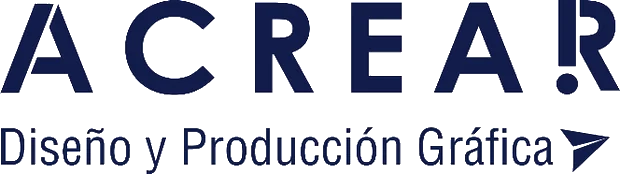
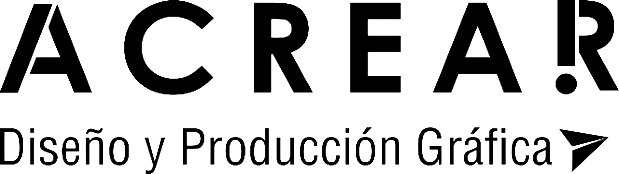
Fix monochrome sponsors legibility, update Cardacci photo in kayak, add Google Drive media hub

diff --git a/index.html b/index.html
@@ -351,19 +351,31 @@
   <div class="shell">
     <header class="head">
       <p class="head__num">04</p>
-      <h2 class="head__title">Registro de la travesía</h2>
-      <p class="head__lede">Material de la edición de abril de 2026. El álbum completo está en Drive.</p>
+      <h2 class="head__title">Videoteca y Fototeca de la Travesía</h2>
+      <p class="head__lede">Registros audiovisuales de la edición 2026. Reviví el descenso por el Río Arrayanes, la largada en Lago Verde y la llegada a Bahía Rosales.</p>
     </header>
 
-    <div class="film" id="film" data-video="t5qNJe3UqBc">
-      <button class="film__btn" type="button" aria-label="Reproducir el video de la travesía">
-        <span class="film__ring"><svg class="ic" aria-hidden="true"><use href="#i-play"/></svg></span>
-        <span class="film__label">Ver el video de la bajada<em>YouTube · se carga al reproducir</em></span>
-      </button>
+    <!-- Selector de Videos / Videoteca -->
+    <div class="video-hub">
+      <div class="video-hub__tabs">
+        <button class="video-tab-btn active" type="button" data-video-src="t5qNJe3UqBc">
+          <svg class="ic" aria-hidden="true"><use href="#i-play"/></svg> Cortometraje Oficial (Resumen)
+        </button>
+        <a class="video-tab-btn" href="https://drive.google.com/drive/folders/1t2gUt2ecHjFj2KRR2Z2_L6Mwt_5ZMMUS?usp=sharing" target="_blank" rel="noopener noreferrer">
+          <svg class="ic" aria-hidden="true"><use href="#i-folder"/></svg> Archivo de Videos Crudos en Google Drive
+        </a>
+      </div>
+
+      <div class="film" id="film" data-video="t5qNJe3UqBc">
+        <button class="film__btn" type="button" aria-label="Reproducir el video de la travesía">
+          <span class="film__ring"><svg class="ic" aria-hidden="true"><use href="#i-play"/></svg></span>
+          <span class="film__label">Ver el cortometraje de la bajada<em>Reproducción directa desde la nube sin ocupar espacio del servidor</em></span>
+        </button>
+      </div>
     </div>
 
     <div class="plates" id="plates">
-      <figure class="plate" data-full="assets/gallery-1.jpg" data-caption="Navegación sobre el Río Arrayanes, entre bosque nativo.">
+      <figure class="plate" data-full="assets/gallery-1.jpg" data-caption="Navegación sobre el Río Arrayanes, entre bosque nativo de alerces.">
         <img src="assets/gallery-1.jpg" alt="Kayaks navegando el Río Arrayanes" loading="lazy" decoding="async">
         <figcaption><b>Río Arrayanes</b><span>Tramo de corriente</span></figcaption>
       </figure>
@@ -371,19 +383,22 @@
         <img src="assets/gallery-2.jpg" alt="Amanecer sobre el Lago Verde" loading="lazy" decoding="async">
         <figcaption><b>Lago Verde</b><span>Largada</span></figcaption>
       </figure>
-      <figure class="plate" data-full="assets/gallery-3.jpg" data-caption="Desembarque en la playa de Bahía Rosales.">
+      <figure class="plate" data-full="assets/gallery-3.jpg" data-caption="Desembarque y descanso en la playa de Bahía Rosales.">
         <img src="assets/gallery-3.jpg" alt="Desembarque en Bahía Rosales" loading="lazy" decoding="async">
         <figcaption><b>Bahía Rosales</b><span>Llegada</span></figcaption>
       </figure>
-      <figure class="plate" data-full="assets/gallery-4.jpg" data-caption="La flotilla completa avanzando en formación.">
+      <figure class="plate" data-full="assets/gallery-4.jpg" data-caption="La flotilla universitaria completa advancing en formación.">
         <img src="assets/gallery-4.jpg" alt="Vista aérea de la flotilla de kayaks" loading="lazy" decoding="async">
         <figcaption><b>Flotilla</b><span>42 embarcaciones</span></figcaption>
       </figure>
     </div>
 
-    <a class="linkrow" href="https://drive.google.com/drive/folders/1t2gUt2ecHjFj2KRR2Z2_L6Mwt_5ZMMUS" target="_blank" rel="noopener noreferrer">
-      <svg class="ic" aria-hidden="true"><use href="#i-folder"/></svg>
-      <span><b>Álbum completo en Google Drive</b><em>Fotografías en alta resolución de la edición 2026</em></span>
+    <a class="linkrow linkrow--highlight" href="https://drive.google.com/drive/folders/1t2gUt2ecHjFj2KRR2Z2_L6Mwt_5ZMMUS?usp=sharing" target="_blank" rel="noopener noreferrer">
+      <svg class="ic ic--lg" aria-hidden="true"><use href="#i-folder"/></svg>
+      <span>
+        <b>Fototeca y Videoteca completa en Google Drive (Acceso Libre)</b>
+        <em>Descargá las fotos originales en alta resolución y los videos sin comprimir de la travesía</em>
+      </span>
       <svg class="ic linkrow__go" aria-hidden="true"><use href="#i-external"/></svg>
     </a>
   </div>

diff --git a/styles.css b/styles.css
@@ -660,6 +660,45 @@ em { font-style: italic; }
   gap: clamp(12px, 1.6vw, 20px);
   counter-reset: plate;
 }
+.video-hub {
+  margin-bottom: 2rem;
+}
+.video-hub__tabs {
+  display: flex;
+  flex-wrap: wrap;
+  gap: .75rem;
+  margin-bottom: 1.25rem;
+}
+.video-tab-btn {
+  display: inline-flex;
+  align-items: center;
+  gap: .5rem;
+  padding: .65rem 1.2rem;
+  font-size: .88rem;
+  font-weight: 500;
+  color: var(--ink-2);
+  background: var(--paper-2);
+  border: 1px solid var(--rule);
+  border-radius: 4px;
+  text-decoration: none;
+  cursor: pointer;
+  transition: all .25s var(--ease);
+}
+.video-tab-btn:hover, .video-tab-btn.active {
+  color: var(--paper);
+  background: var(--ink);
+  border-color: var(--ink);
+}
+
+.linkrow--highlight {
+  background: color-mix(in srgb, var(--lake) 12%, var(--paper));
+  border-color: color-mix(in srgb, var(--lake) 40%, transparent);
+}
+.linkrow--highlight:hover {
+  background: color-mix(in srgb, var(--lake) 22%, var(--paper));
+  border-color: var(--lake);
+}
+
 .plate {
   position: relative; margin: 0;
   counter-increment: plate;
@@ -724,21 +763,34 @@ em { font-style: italic; }
    -------------------------------------------------------------------------- */
 .person {
   display: grid;
-  grid-template-columns: 260px minmax(0, 1fr);
+  grid-template-columns: minmax(280px, 380px) minmax(0, 1fr);
   gap: clamp(28px, 4.5vw, 56px);
-  align-items: start;
+  align-items: center;
   padding-bottom: clamp(44px, 6vw, 72px);
   border-bottom: 1px solid var(--rule);
 }
 .person__plate {
   position: relative; margin: 0;
-  aspect-ratio: 4 / 5;
+  aspect-ratio: 16 / 10;
   overflow: hidden;
   border: 1px solid var(--rule);
-  border-radius: 2px;
+  border-radius: 4px;
   background: var(--paper-3);
+  box-shadow: 0 10px 30px -10px rgba(0, 0, 0, 0.12);
 }
-.person__plate img { width: 100%; height: 100%; object-fit: cover; }
+.person__plate img {
+  width: 100%; height: 100%;
+  object-fit: cover;
+  object-position: center 30%;
+  transition: transform .4s var(--ease);
+}
+.person__plate:hover img {
+  transform: scale(1.03);
+}
+
+@media (max-width: 768px) {
+  .person { grid-template-columns: 1fr; }
+}
 .person__plate.is-empty img { display: none; }
 .person__plate.is-empty::before {
   content: attr(data-initials);
